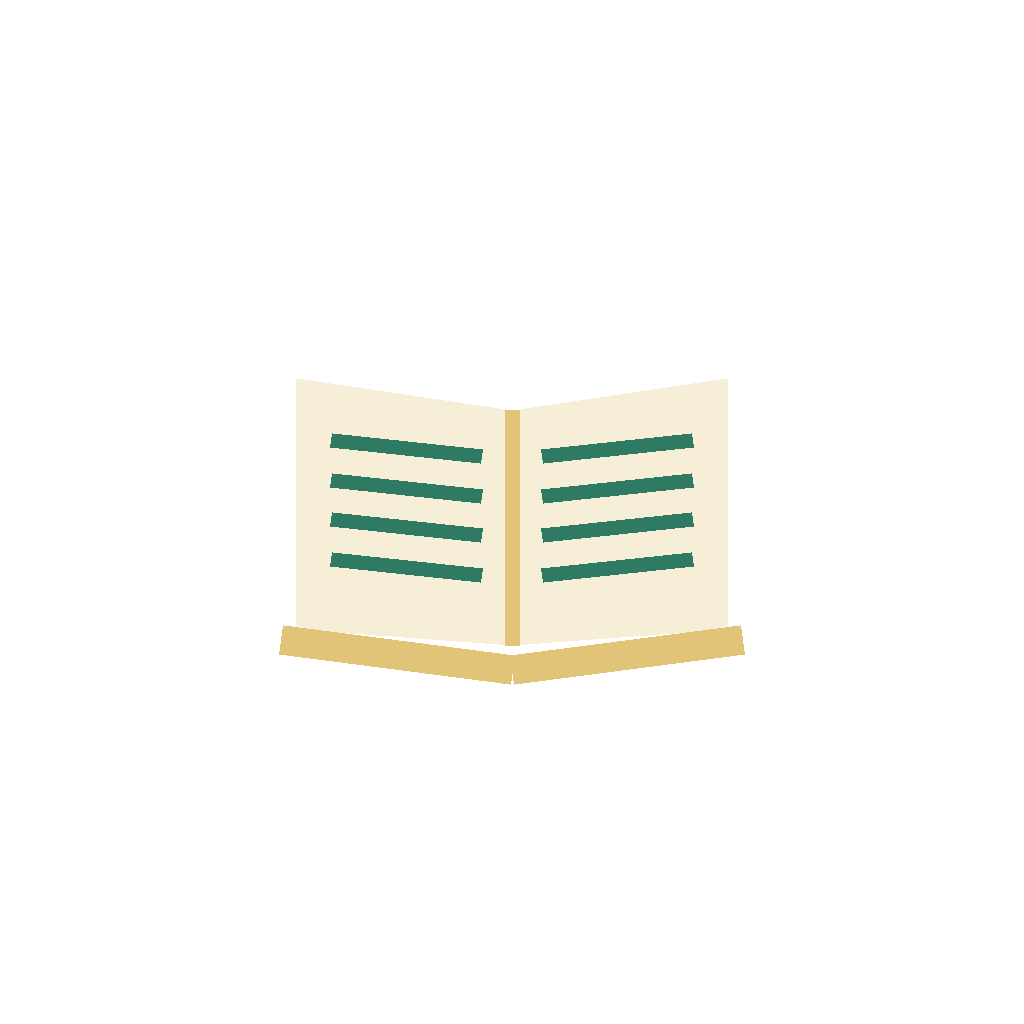
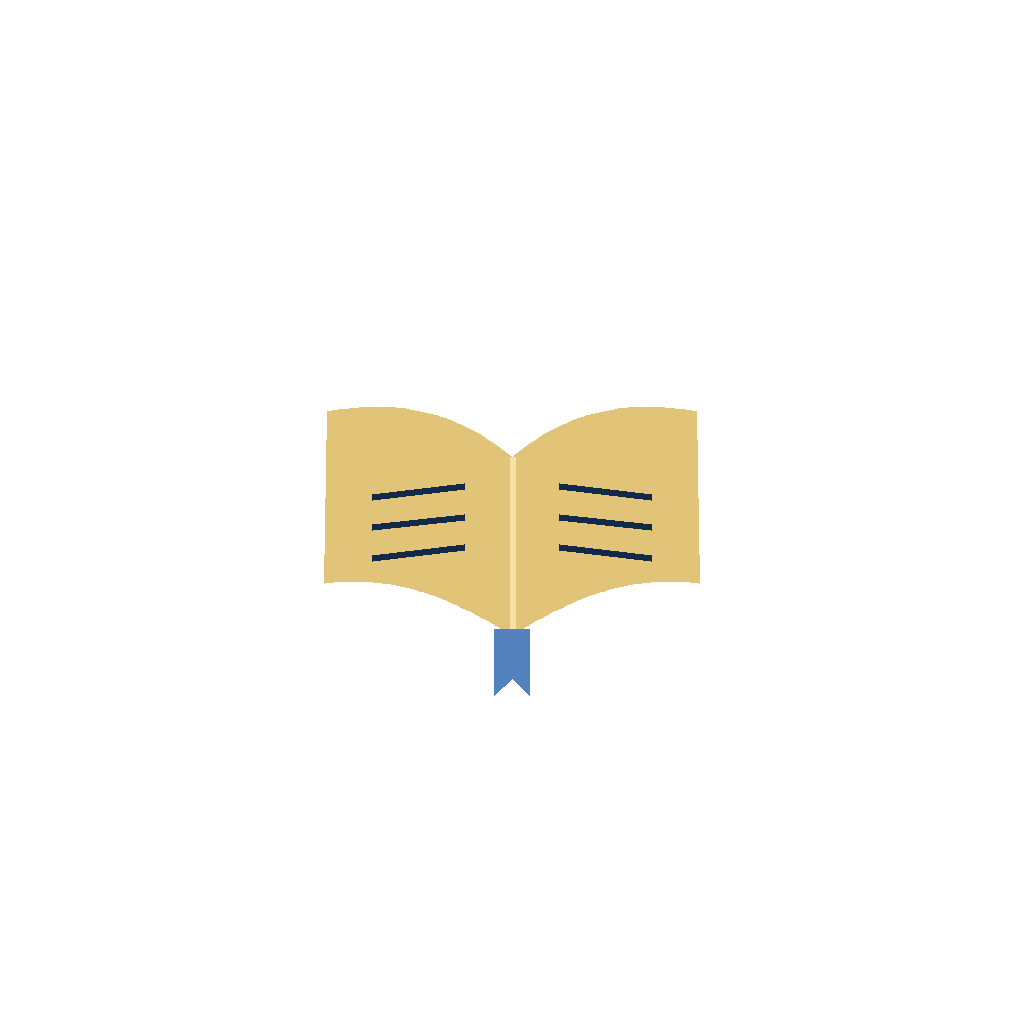
ألوان زرقاء بدل الأخضر، وأيقونة جديدة للتطبيق والموقع: كتاب مفتوح بذهب على خلفية كحلية

Changed region(s): [[0.25, 0.375, 0.75, 0.6875]]

diff --git a/lib/ui.dart b/lib/ui.dart
@@ -1,20 +1,20 @@
 import 'package:flutter/cupertino.dart' show CupertinoPageTransitionsBuilder;
 import 'package:flutter/material.dart';
 
-/// Colours of «مكتبة العلماء السلفية»: warm paper, deep green and gold.
+/// Colours of «مكتبة العلماء السلفية»: warm paper, deep blue and gold.
 class C {
   static bool dark(BuildContext c) => Theme.of(c).brightness == Brightness.dark;
-  static Color bg(BuildContext c) => dark(c) ? const Color(0xFF0F1513) : const Color(0xFFF6F3EC);
-  static Color card(BuildContext c) => dark(c) ? const Color(0xFF18211E) : const Color(0xFFFFFDF8);
-  static Color line(BuildContext c) => dark(c) ? const Color(0xFF2A3632) : const Color(0xFFE4DCCB);
+  static Color bg(BuildContext c) => dark(c) ? const Color(0xFF0C1421) : const Color(0xFFF6F3EC);
+  static Color card(BuildContext c) => dark(c) ? const Color(0xFF15203A) : const Color(0xFFFFFDF8);
+  static Color line(BuildContext c) => dark(c) ? const Color(0xFF2A3A57) : const Color(0xFFE4DCCB);
   static Color ink(BuildContext c) => dark(c) ? const Color(0xFFEAE4D8) : const Color(0xFF1C1F1D);
   static Color muted(BuildContext c) => dark(c) ? const Color(0xFF9AA39E) : const Color(0xFF75736C);
-  static Color accent(BuildContext c) => dark(c) ? const Color(0xFF7FC4A8) : const Color(0xFF1F5C4A);
+  static Color accent(BuildContext c) => dark(c) ? const Color(0xFF8FBDE8) : const Color(0xFF23466E);
   static Color gold(BuildContext c) => dark(c) ? const Color(0xFFD9B970) : const Color(0xFFA9832F);
-  static Color soft(BuildContext c) => dark(c) ? const Color(0xFF223029) : const Color(0xFFE9E3D4);
+  static Color soft(BuildContext c) => dark(c) ? const Color(0xFF1E2C47) : const Color(0xFFE9E3D4);
 }
 
-const green = Color(0xFF1F5C4A);
+const green = Color(0xFF23466E);
 const gold = Color(0xFFA9832F);
 const bookFont = 'Amiri';
 const uiFont = 'Tajawal';
@@ -22,8 +22,8 @@ const uiFont = 'Tajawal';
 
 ThemeData buildTheme(Brightness b) {
   final dark = b == Brightness.dark;
-  final accent = dark ? const Color(0xFF7FC4A8) : green;
-  final bg = dark ? const Color(0xFF0F1513) : const Color(0xFFF6F3EC);
+  final accent = dark ? const Color(0xFF8FBDE8) : green;
+  final bg = dark ? const Color(0xFF0C1421) : const Color(0xFFF6F3EC);
   final ink = dark ? const Color(0xFFEAE4D8) : const Color(0xFF1C1F1D);
   return ThemeData(
     brightness: b,
@@ -164,7 +164,7 @@ class ScholarMark extends StatelessWidget {
       alignment: Alignment.center,
       decoration: BoxDecoration(
         shape: BoxShape.circle,
-        gradient: const LinearGradient(colors: [Color(0xFF1F5C4A), Color(0xFF2E7A62)], begin: Alignment.topRight, end: Alignment.bottomLeft),
+        gradient: const LinearGradient(colors: [Color(0xFF23466E), Color(0xFF2F5F94)], begin: Alignment.topRight, end: Alignment.bottomLeft),
         border: Border.all(color: C.gold(context), width: 1.4),
       ),
       child: Text(letter, style: TextStyle(fontFamily: bookFont, fontSize: size * 0.46, color: const Color(0xFFF1DFA8), fontWeight: FontWeight.w700, height: 1.25)),

diff --git a/lib/screens/book.dart b/lib/screens/book.dart
@@ -299,7 +299,7 @@ class _Hero extends StatelessWidget {
           decoration: BoxDecoration(
             borderRadius: const BorderRadiusDirectional.only(
               topStart: Radius.circular(4), bottomStart: Radius.circular(4), topEnd: Radius.circular(12), bottomEnd: Radius.circular(12)),
-            gradient: const LinearGradient(colors: [Color(0xFF1F5C4A), Color(0xFF2E7A62)], begin: Alignment.topRight, end: Alignment.bottomLeft),
+            gradient: const LinearGradient(colors: [Color(0xFF23466E), Color(0xFF2F5F94)], begin: Alignment.topRight, end: Alignment.bottomLeft),
             border: Border.all(color: C.gold(context), width: 1.2),
             boxShadow: [BoxShadow(color: Colors.black.withValues(alpha: 0.18), blurRadius: 12, offset: const Offset(0, 5))],
           ),

diff --git a/lib/screens/scholar.dart b/lib/screens/scholar.dart
@@ -138,7 +138,7 @@ class BookTile extends StatelessWidget {
           height: 56,
           decoration: BoxDecoration(
             borderRadius: BorderRadius.circular(8),
-            gradient: const LinearGradient(colors: [Color(0xFF1F5C4A), Color(0xFF2E7A62)], begin: Alignment.topRight, end: Alignment.bottomLeft),
+            gradient: const LinearGradient(colors: [Color(0xFF23466E), Color(0xFF2F5F94)], begin: Alignment.topRight, end: Alignment.bottomLeft),
             border: Border.all(color: C.gold(context).withValues(alpha: 0.7)),
           ),
           child: Icon(Store.i.downloaded.contains(b.id) ? Icons.download_done_rounded : Icons.menu_book_rounded, color: const Color(0xFFF1DFA8), size: 22),

diff --git a/lib/screens/home.dart b/lib/screens/home.dart
@@ -211,7 +211,7 @@ class _Header extends StatelessWidget {
           height: 50,
           decoration: BoxDecoration(
             borderRadius: BorderRadius.circular(16),
-            gradient: const LinearGradient(colors: [Color(0xFF1F5C4A), Color(0xFF2E7A62)], begin: Alignment.topRight, end: Alignment.bottomLeft),
+            gradient: const LinearGradient(colors: [Color(0xFF23466E), Color(0xFF2F5F94)], begin: Alignment.topRight, end: Alignment.bottomLeft),
           ),
           child: const Icon(Icons.menu_book_rounded, color: Color(0xFFF1DFA8), size: 28),
         ),

diff --git a/tool/patch_web.py b/tool/patch_web.py
@@ -26,7 +26,7 @@ if 'id="loading"' not in h:
     #loading { position: fixed; inset: 0; display: flex; flex-direction: column; align-items: center;
       justify-content: center; background: #F6F3EC; z-index: 9; transition: opacity .4s; }
     #loading img { width: 128px; height: 128px; border-radius: 30px; animation: pulse 1.6s ease-in-out infinite; }
-    #loading p { color: #1F5C4A; font: 16px sans-serif; margin-top: 22px; }
+    #loading p { color: #23466E; font: 16px sans-serif; margin-top: 22px; }
     @keyframes pulse { 0%,100% { transform: scale(1); opacity: 1; } 50% { transform: scale(1.05); opacity: .8; } }
   </style>
   <div id="loading"><img src="icons/Icon-192.png" alt=""><p>جارٍ فتح «مكتبة العلماء السلفية»…</p></div>
@@ -41,7 +41,7 @@ index.write_text(h, encoding="utf-8")
 mf = Path("web/manifest.json")
 j = json.loads(mf.read_text(encoding="utf-8"))
 j.update(name=TITLE, short_name="مكتبة العلماء", description=DESC,
-         background_color="#F6F3EC", theme_color="#1F5C4A", lang="ar", dir="rtl")
+         background_color="#F6F3EC", theme_color="#23466E", lang="ar", dir="rtl")
 mf.write_text(json.dumps(j, ensure_ascii=False, indent=2), encoding="utf-8")
 
 for f in Path("tool/web_icons").glob("*.png"):
